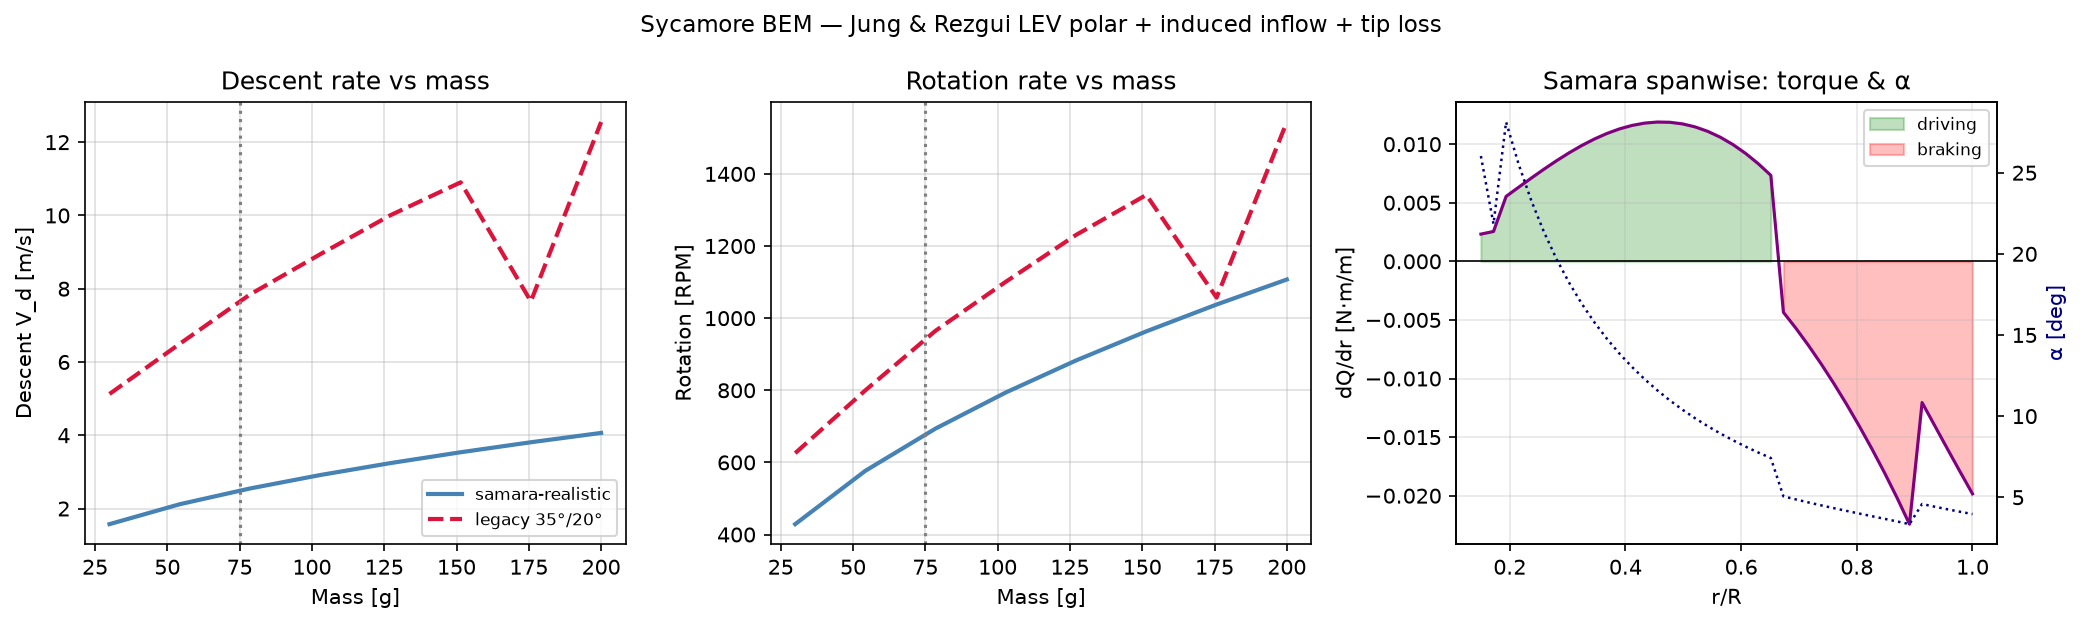
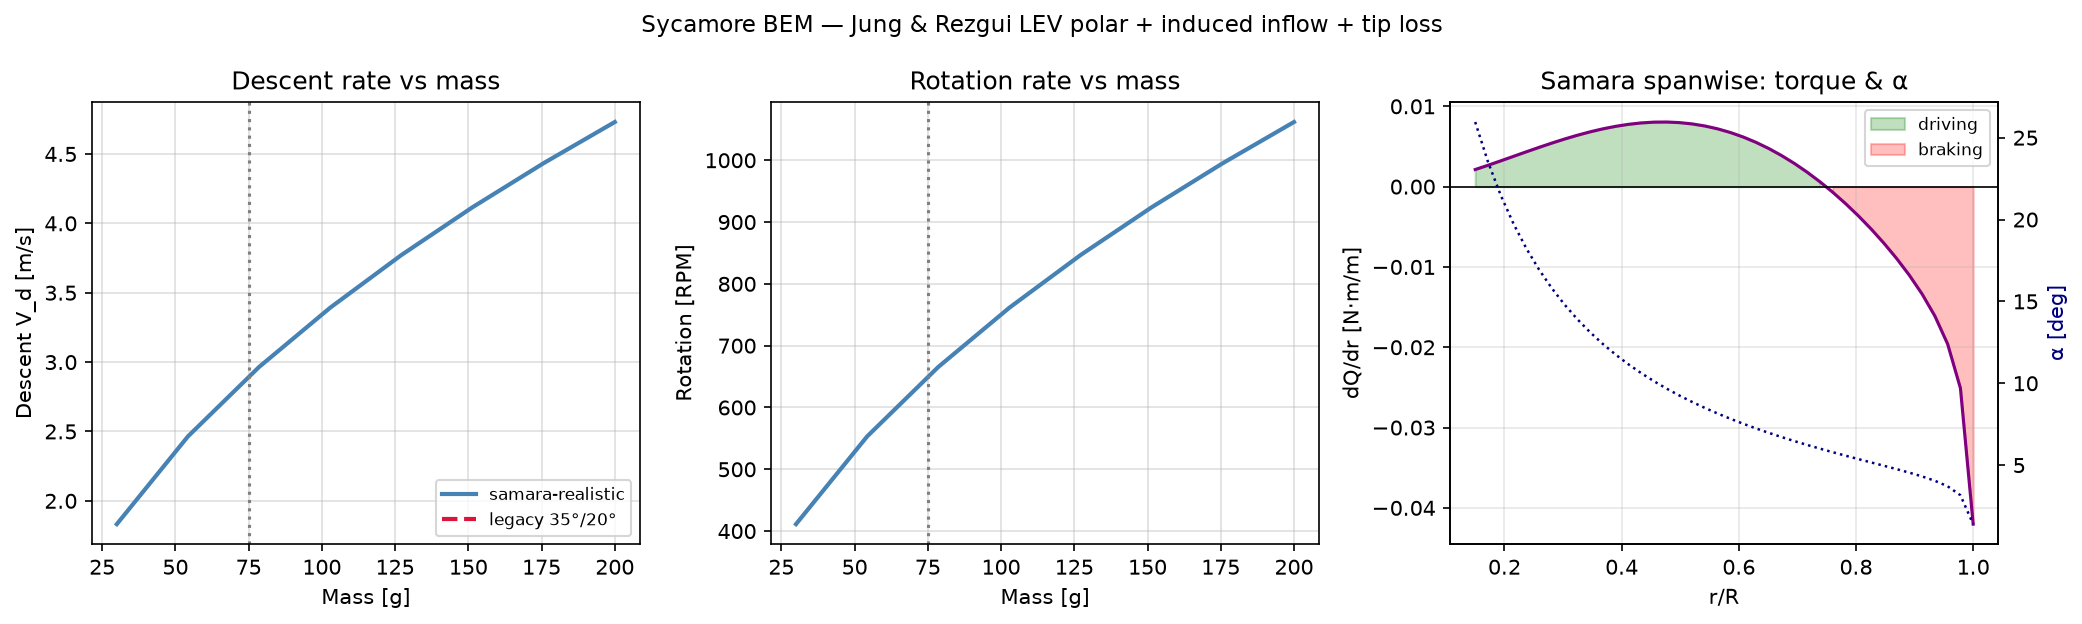
Wave 1 review fixes: turbulent-wake inflow, thrust sign, guardrail
Addresses real bugs found in an adversarial review of the Wave-1 physics
(4 reviewers, all reproduced their findings by running code). The conceptual
core was verified sound (torque formula, negative-pitch identity, tip loss,
stable-crossing selection, grid convergence); these fix the defects.

1. Turbulent-wake induced-inflow handling (was the headline-affecting bug).
   The momentum quadratic has no real root when the blade load exceeds the
   momentum peak a_*Vd^2/4 (disc<0); the code set v_i=0 there, silently
   disabling induced inflow on ~68% of the span (90% on the Sycamore-A anchor)
   exactly where most torque is generated. Now clamp v_i to the peak Vd/2
   (Glauert/Buhl empirical) at breakdown, v_i=0 only on braking elements, and
   bound v_i to [0, Vd/2] so it can never go negative or diverge. This also
   removes the off-equilibrium v_i runaway (T ~ -1e23 N) and the phantom
   branches it bred (which had made the LEGACY mass sweep non-monotone).

2. Thrust drag-sign fix. The descent/windmill free-body diagram that validates
   the torque (L sinφ - D cosφ) requires thrust = L cosφ + D sinφ; the code
   used -D sinφ (propeller sign, inherited). Corrected in forces() and the
   momentum load dT_be.

   Combined effect of (1)+(2): the Sycamore-A validation anchor now reproduces
   Vd=0.97 m/s EXACTLY (paper 0.97; was 0.69), 1056 RPM (paper ~1145), root->tip
   alpha 41->3deg (paper SNM ~30-45 -> ~5). SAMARA headline 2.49 -> 2.90 m/s,
[…]

diff --git a/01_aero/samara_bem.py b/01_aero/samara_bem.py
@@ -29,7 +29,11 @@ Momentum theory gives a per-element induced velocity v_i in the windmilling-
 brake (descent) state: the axial through-flow is U_p = (V_d − v_i)·cosβ (v_i
 SUBTRACTED — the correct descent-state sign), solved against the blade-element
 load with a Prandtl single-blade tip-loss factor F. α = θ + φ (paper sign
-convention), φ = arctan(U_p/U_t), U_t = Ωr.
+convention), φ = arctan(U_p/U_t), U_t = Ωr. The momentum parabola peaks at
+v_i=V_d/2; heavily-loaded elements past that peak (turbulent-wake state) clamp
+to V_d/2 (Glauert/Buhl empirical) rather than dropping induced inflow to zero,
+and v_i is bounded to [0, V_d/2] so it cannot go negative or diverge. The
+descent FBD also fixes the thrust drag-sign: T = L cosφ + D sinφ.
 
 Solver — well posed
 -------------------
@@ -125,13 +129,22 @@ def _state(Vd, Om, cfg, r, c, theta, n_it=15):
             F = np.maximum((2 / np.pi) * np.arccos(np.clip(np.exp(-f), 0.0, 1.0)), 1e-4)
         else:
             F = 1.0
-        # blade-element axial load per unit span
-        dT_be = 0.5 * cfg.rho * U2 * c[None, :] * (cl*np.cos(phi) - cd*np.sin(phi)) * cfg.n_blades
-        # momentum per annulus: dT/dr = 4π ρ r (Vd − v_i) v_i F cosβ  → solve v_i
-        a_   = np.maximum(4 * np.pi * cfg.rho * r[None, :] * F * cb, 1e-9)
-        disc = (a_ * Vd)**2 - 4 * a_ * dT_be
-        vi_n = np.where(disc > 0, (a_ * Vd - np.sqrt(np.maximum(disc, 0.0))) / (2 * a_), 0.0)
-        vi   = 0.6 * vi + 0.4 * vi_n                      # under-relaxed fixed point
+        # blade-element axial load per unit span. Descent/windmill FBD: drag's
+        # axial component SUPPORTS weight, so thrust = L cosφ + D sinφ (see
+        # forces()); the +cd·sinφ sign matches the L sinφ − D cosφ torque.
+        dT_be = 0.5 * cfg.rho * U2 * c[None, :] * (cl*np.cos(phi) + cd*np.sin(phi)) * cfg.n_blades
+        # momentum per annulus: dT/dr = 4π ρ r (Vd − v_i) v_i F cosβ, a downward
+        # parabola in v_i peaking at v_i=Vd/2 (value a_·Vd²/4). Take the smaller
+        # (lightly-loaded) root; when the blade load exceeds the momentum peak
+        # (disc<0, turbulent-wake state) clamp v_i to the peak Vd/2 (Glauert/Buhl
+        # empirical) rather than 0; braking elements (dT_be≤0) take v_i=0. Keep
+        # v_i∈[0, Vd/2] so the inflow can never go negative or diverge.
+        a_    = np.maximum(4 * np.pi * cfg.rho * r[None, :] * F * cb, 1e-9)
+        disc  = (a_ * Vd)**2 - 4 * a_ * dT_be
+        vi_lo = (a_ * Vd - np.sqrt(np.maximum(disc, 0.0))) / (2 * a_)   # smaller root
+        vi_n  = np.where(dT_be <= 0.0, 0.0, np.where(disc >= 0.0, vi_lo, 0.5 * Vd))
+        vi_n  = np.clip(vi_n, 0.0, 0.5 * Vd)
+        vi    = 0.6 * vi + 0.4 * vi_n                      # under-relaxed fixed point
 
     Up  = (Vd - vi) * cb
     phi = np.arctan2(Up, Ut)
@@ -147,7 +160,9 @@ def forces(Vd, Om, cfg, grid):
     dr = r[1] - r[0]
     _, _, phi, al, U2, cl, cd, _ = _state(Vd, Om, cfg, r, c, theta)
     q  = 0.5 * cfg.rho * U2 * c[None, :]
-    dT = (q*cl*np.cos(phi) - q*cd*np.sin(phi)) * cfg.n_blades
+    # Descent/windmill FBD: T = L cosφ + D sinφ (drag's axial component supports
+    # weight); driving torque Q/r = L sinφ − D cosφ (lift drives, drag brakes).
+    dT = (q*cl*np.cos(phi) + q*cd*np.sin(phi)) * cfg.n_blades
     dQ = r[None, :] * (q*cl*np.sin(phi) - q*cd*np.cos(phi)) * cfg.n_blades
     T  = np.sum(dT * dr, axis=1)
     Q  = np.sum(dQ * dr, axis=1)
@@ -260,8 +275,9 @@ def validation_brackets(cfg, Vd, Om, m_kg):
     v_h = np.sqrt(DL / (2 * cfg.rho))             # induced-velocity scale [m/s]
     # ideal vertical-autorotation descent ≈ 1.8–2.1 · v_h (windmill-brake state)
     autorot_band = (1.8 * v_h, 2.1 * v_h)
-    # √(disk-loading) scaling from a real maple seed (DL≈0.26 N/m², V_d≈1.2 m/s)
-    scaled = 1.2 * np.sqrt(DL / 0.26)
+    # √(disk-loading) scaling anchored on the VALIDATED Sycamore A
+    # (DL_A≈0.363 N/m², V_d≈0.97 m/s) for internal consistency
+    scaled = 0.97 * np.sqrt(DL / 0.363)
     c_bar = float(np.mean(c))
     Ro    = cfg.R / c_bar                          # Rossby ~ R/c̄ (LEV stable if ≲3–4)
     Utip  = np.sqrt(Vd**2 + (Om * cfg.R)**2)
@@ -283,9 +299,14 @@ def validate_sycamore_A():
     grid = A.grid()
     _, _, _, al, _, _, _, _ = _state(Vd, Om, A, *grid)
     al = al[0]
-    ok = (not np.isnan(Vd)) and (0.4 < Vd < 1.4)        # paper natural descent ≈0.97
-    return {'Vd': Vd, 'rpm': Om * 60 / (2*np.pi) if not np.isnan(Om) else np.nan,
-            'alpha_root_deg': np.rad2deg(al[0]), 'alpha_tip_deg': np.rad2deg(al[-1]),
+    rpm = Om * 60 / (2*np.pi) if not np.isnan(Om) else np.nan
+    a_root, a_tip = np.rad2deg(al[0]), np.rad2deg(al[-1])
+    # Quantitative gate (not just "Vd in a wide window" — that passed wrong
+    # polars). Paper Sycamore A: Vd≈0.97 m/s; Ω≈1140–1150 rpm (Ω∝Vd); SNM root-α
+    # ~30–45° (NOT the ~70° uncorrected droptest data the paper rejects), tip ~5°.
+    ok = ((not np.isnan(Vd)) and (0.75 < Vd < 1.25)
+          and (850 < rpm < 1450) and (25 < a_root < 60) and (a_tip < 12))
+    return {'Vd': Vd, 'rpm': rpm, 'alpha_root_deg': a_root, 'alpha_tip_deg': a_tip,
             'pass': ok}
 
 
@@ -315,7 +336,7 @@ def report(cfg, m0=0.075):
     print(f"  ── reality brackets (Indicative) ──")
     print(f"    disk loading {b['disk_loading']:.2f} N/m²  → v_h={b['v_h']:.2f} m/s  "
           f"→ ideal autorot ≈ {b['autorot_band'][0]:.1f}–{b['autorot_band'][1]:.1f} m/s")
-    print(f"    √(DL)-scaled from real maple seed ≈ {b['scaled_from_seed']:.1f} m/s")
+    print(f"    √(DL)-scaled from validated Sycamore A ≈ {b['scaled_from_seed']:.1f} m/s")
     print(f"    Rossby R/c̄ = {b['rossby']:.1f} (LEV stable if ≲3–4)   "
           f"section Re {b['Re_span'][0]:.0f}–{b['Re_span'][1]:.0f}")
     return Vd0, Om0
@@ -327,7 +348,13 @@ SAMARA = Config(name='Sycamore device — samara-realistic (HEADLINE)',
                 theta_root_deg=-2.6, theta_tip_deg=-2.6,  # real Sycamore-A pitch
                 alpha_sign=+1.0, cl_alpha=5.3, cd0=0.025)
 
-LEGACY = Config(name='Sycamore device — legacy 35°/20° high-pitch (Wave-3 to revisit)',
+# NOTE: LEGACY is a DEPRECATED ARTIFACT, not a physics comparison. alpha_sign=−1
+# (α=θ−φ) is geometrically wrong for a pitched rigid blade in inflow (the real
+# AoA is θ+φ); it feeds the correct torque formula cl/cd at a non-physical,
+# flow-state-dependent angle, so its "equilibrium" solves an inconsistent model.
+# Run honestly at α=θ+φ the 35°/20° geometry would NOT autorotate (consistent
+# with the negative-pitch finding). Kept only to show the old number.
+LEGACY = Config(name='Sycamore device — LEGACY 35°/20° (DEPRECATED wrong-convention artifact)',
                 R=0.30, c_root=0.08, c_tip=0.03,
                 theta_root_deg=35.0, theta_tip_deg=20.0,
                 alpha_sign=-1.0, cl_alpha=5.3, cd0=0.025)
@@ -337,11 +364,13 @@ if __name__ == '__main__':
     # 1) credibility anchor
     v = validate_sycamore_A()
     print(f"\n[validation] Sycamore A: V_d={v['Vd']:.2f} m/s (paper ≈0.97), "
-          f"{v['rpm']:.0f} RPM, α root→tip {v['alpha_root_deg']:.0f}°→{v['alpha_tip_deg']:.0f}° "
-          f"(paper ~70°→5°)  → {'PASS ✓' if v['pass'] else 'FAIL ✗'}")
+          f"{v['rpm']:.0f} RPM (paper ~1145), α root→tip {v['alpha_root_deg']:.0f}°→{v['alpha_tip_deg']:.0f}° "
+          f"(paper SNM ~30–45°→~5°)  → {'PASS ✓' if v['pass'] else 'FAIL ✗'}")
 
     # 2) the two device configs, side by side
     Vd_s, Om_s = report(SAMARA)
+    print("\n  ⚠ LEGACY below is a DEPRECATED wrong-convention artifact (α=θ−φ is")
+    print("    non-physical for a pitched blade); NOT a valid physics comparison.")
     Vd_l, Om_l = report(LEGACY)
 
     # 3) figure: descent & RPM vs mass (both configs) + samara spanwise α / dQ/dr
